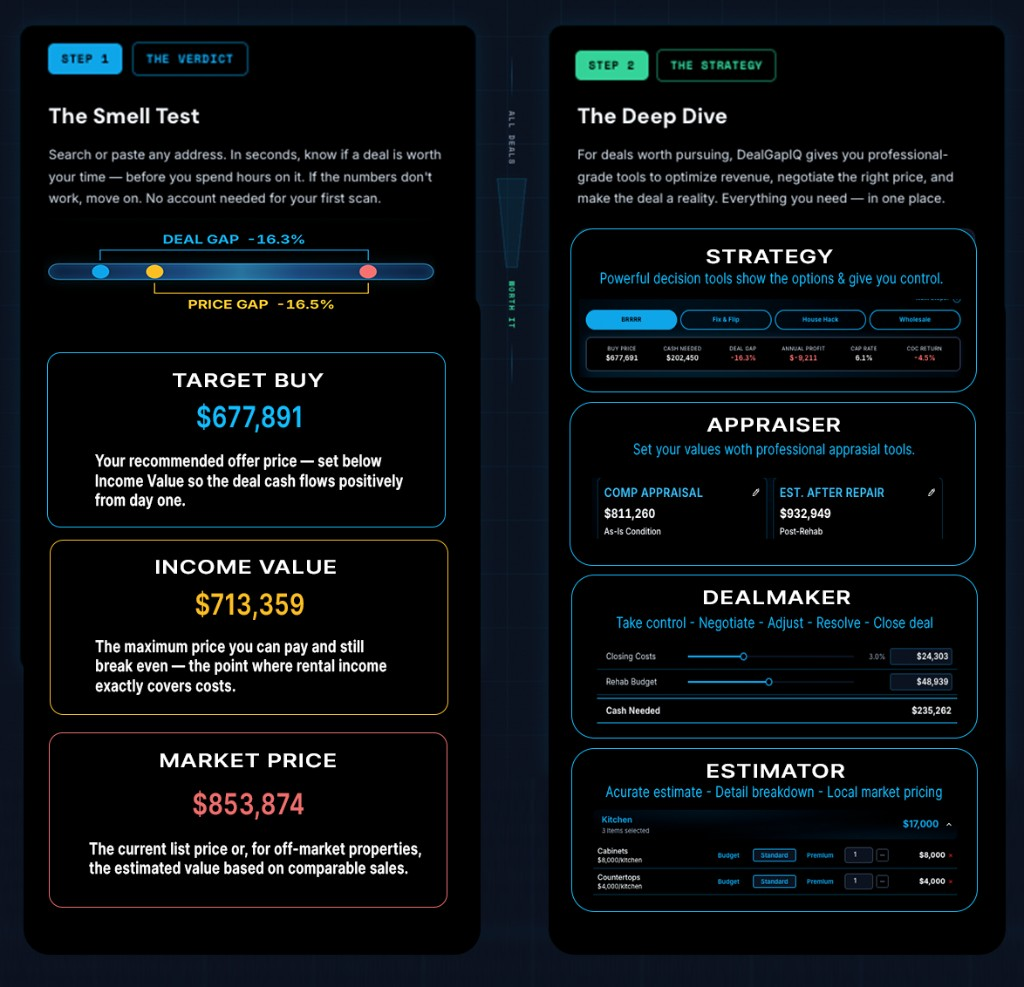
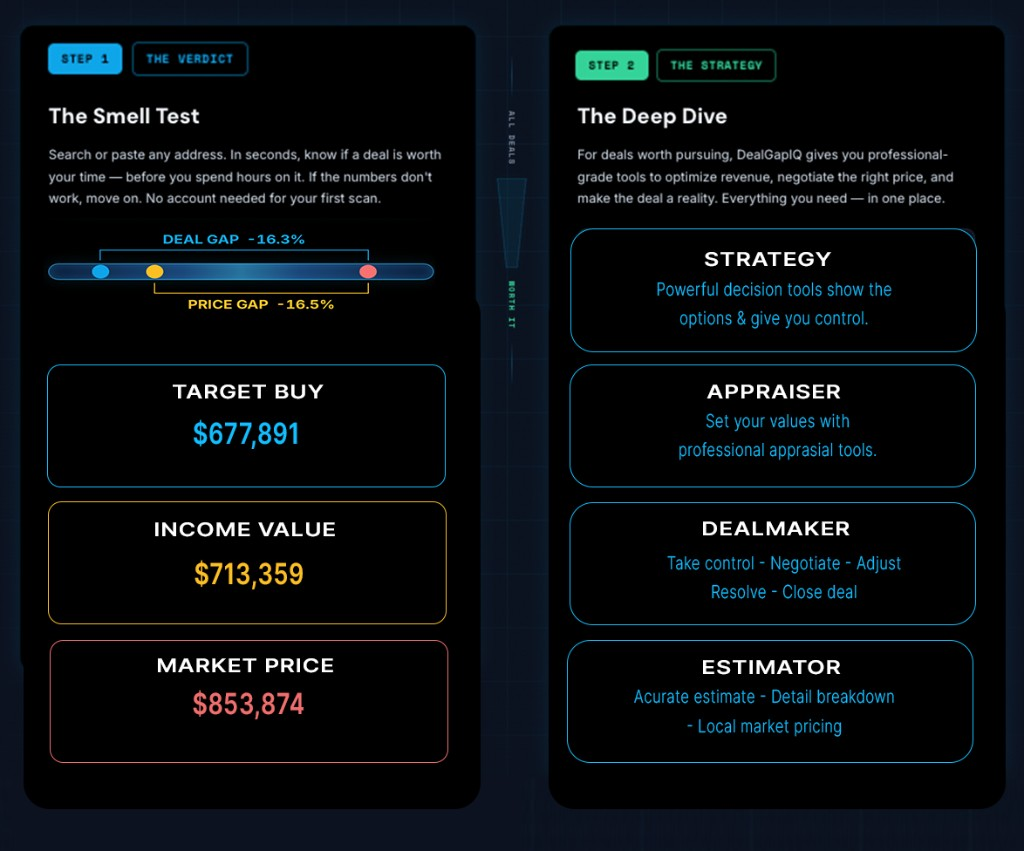
fix(HowItWorksSection): Update image height for better visual alignment
- Adjusted the height of the how-it-works image from 900px to 851px to improve visual consistency and presentation within the component.
- Updated the image file to reflect the latest design changes.

diff --git a/frontend/src/components/landing/HowItWorksSection.tsx b/frontend/src/components/landing/HowItWorksSection.tsx
@@ -19,7 +19,7 @@ export function HowItWorksSection() {
             src="/images/how-it-works-steps.png"
             alt="Step 1: The Verdict — instant deal analysis. Step 2: The Strategy — professional-grade tools."
             width={1024}
-            height={900}
+            height={851}
             style={{ width: '100%', maxWidth: '900px', height: 'auto', borderRadius: '12px' }}
             priority
           />